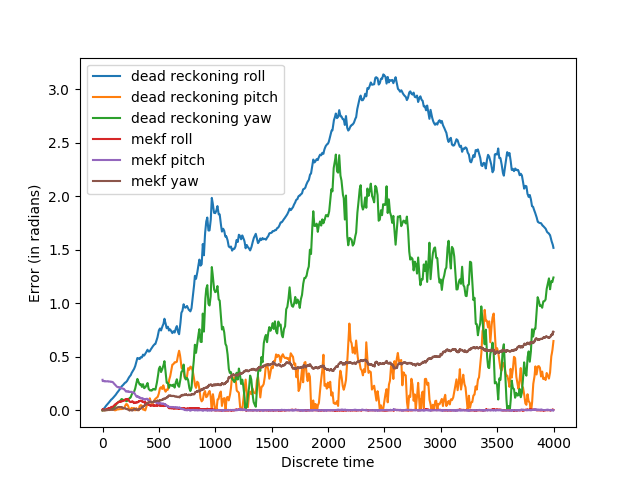
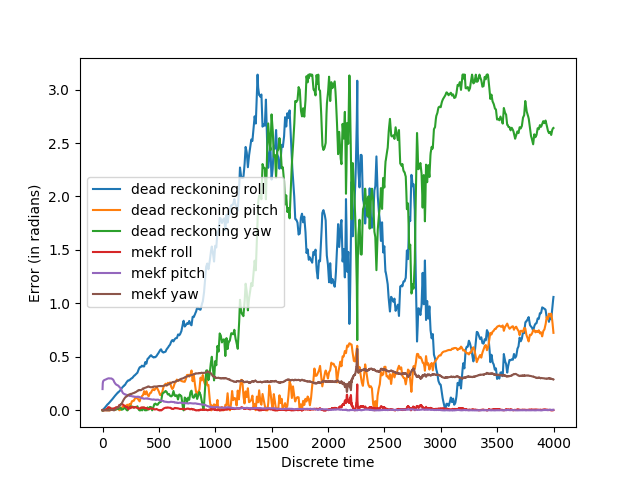
Added process covariance derivation

diff --git a/_posts/2020-07-18-mekf.md b/_posts/2020-07-18-mekf.md
@@ -34,13 +34,13 @@ $$ q_{k|k-1} = q_{k-1|k-1} + \dot{q}_{k-1|k-1} \Delta t = q_{k-1|k-1} + \frac{1}
 
 Then, update the process model:
 
-$$F_k = (I + G\Delta t) $$
+$$\Phi_k = (I + F\Delta t) $$
 
-where $ \dot{\boldsymbol{x}} = G \boldsymbol{x} $
+where $ \dot{\boldsymbol{x}} = F \boldsymbol{x} $
 
 Then, update the *a priori* estimate covariance and kalman gain (the following is common with the vanilla KF) :
 
-$$ P_{k|k-1} = F_k P_{k-1|k-1} F_k^T + Q_k $$
+$$ P_{k|k-1} = \Phi_k P_{k-1|k-1} \Phi_k^T + Q_k $$
 
 $$ K_k = P_{k|k-1} H_k^T (H_k P_{k|k-1} H_k^T + R_k)^{-1} $$
 
@@ -67,12 +67,12 @@ $$\boldsymbol{f}^b = \boldsymbol{a}^b +  R(q)_i^b \begin{pmatrix} 0 \\ 0 \\ -g \
 
 Let's form our state vector. We'll need the orientation error parameterisation($\boldsymbol{\alpha}$), the position error ($\delta \boldsymbol{r}$) and linear velocity error ($\delta \boldsymbol{v}$) in world coordinates, and the gyro and accelerometer biases ($ \boldsymbol{\beta_{\omega}} $ and $ \boldsymbol{\beta_{f}}$):
 
-$$x = \begin{pmatrix} \boldsymbol{\alpha} \\  \delta \boldsymbol{v} \\ \delta \boldsymbol{r} \\ \boldsymbol{\beta_{\omega}} \\ \boldsymbol{\beta_{f}} \end{pmatrix} $$
+$$\boldsymbol{x} = \begin{pmatrix} \boldsymbol{\alpha} \\  \delta \boldsymbol{v} \\ \delta \boldsymbol{r} \\ \boldsymbol{\beta_{\omega}} \\ \boldsymbol{\beta_{f}} \end{pmatrix} $$
 
-In order to form the Kalman filter, we need to form our discrete state transition model, which is determined in the obvious form from the dynamics of the error state vector: $ F = I + G\Delta t $ where
-$$ \dot{\boldsymbol{x}} =  G \boldsymbol{x} $$
+In order to form the Kalman filter, we need to form our discrete state transition model, which is determined in the obvious form from the dynamics of the error state vector: $ \Phi = I + F\Delta t $ where
+$$ \dot{\boldsymbol{x}} =  F \boldsymbol{x} $$
 
-See the [appendix](#appendix) for derivations.
+See the [appendix](#appendix) for derivations of the following.
 
 $$ \dot{\boldsymbol{\alpha}} = -[\boldsymbol{\hat{\omega}} \times] \boldsymbol{\alpha} - \boldsymbol{\beta_{\omega}} - \boldsymbol{\eta_{\omega}}$$
 
@@ -86,20 +86,20 @@ $$ \dot{\boldsymbol{\beta_{f}}} = \boldsymbol{\nu_{f}} $$
 
 so,
 
-$$ G = \begin{pmatrix}-[\boldsymbol{\hat{\omega}} \times]  & 0 & 0 & -I & 0 \\ -R_b^i (\hat{q})[\boldsymbol{\hat{f}}^b \times] & 0 & 0 & 0 & - R_b^i(\hat{q}) \\
+$$ F = \begin{pmatrix}-[\boldsymbol{\hat{\omega}} \times]  & 0 & 0 & -I & 0 \\ -R_b^i (\hat{q})[\boldsymbol{\hat{f}}^b \times] & 0 & 0 & 0 & - R_b^i(\hat{q}) \\
 0 & I & 0 & 0 & 0 \\ 0 & 0 & 0 & 0 & 0 \\ 0 & 0 & 0 & 0 & 0 \end{pmatrix} $$
 
 and
 
-$$ Q_k = \int_0^{\Delta t} e^{F(t-\tau)} Q_c e^{F^T(t-\tau)} d\tau $$
+$$ Q_k = \int_0^{\Delta t} e^{F(\Delta t-\tau)} Q_c e^{F^T(\Delta t-\tau)} d\tau $$
 
 where
 
-$$Q_c = \begin{pmatrix} diag(\sigma_{\omega}^2) & 0 & 0 & 0 & 0 & 0 \\ 0 & diag(\sigma_{f}^2) & 0 & ) & 0 & 0 \\ 0 & 0 & 0 & 0 & 0 & 0 \\ 0 & 0 & 0 & diag(\sigma_{\beta_{\omega}}^2) & 0 & 0 \\ 0 & 0 & 0 & 0 & diag(\sigma_{\beta_{f}}^2) & 0 \\ 0 & 0 & 0 & 0 & 0 & diag(\sigma_{\beta_{m}}^2) \end{pmatrix}$$
+$$Q_c = \begin{pmatrix} diag(\sigma_{\omega}^2) & 0 & 0 & 0 & 0 \\ 0 & diag(\sigma_{f}^2) & 0 & 0 & 0 \\ 0 & 0 & 0 & 0 & 0 \\ 0 & 0 & 0 & diag(\sigma_{\beta_{\omega}}^2) & 0 \\ 0 & 0 & 0 & 0 & diag(\sigma_{\beta_{f}}^2) \end{pmatrix}$$
 
 We can linearise $F$ around $\hat{\omega} = \hat{f} = 0 $ and $ R_i^b(\hat{q}) = I $ to obtain:
 
-$$ Q_k = \begin{pmatrix} \wedge(\sigma_{\omega}^2) \Delta t + \wedge(\sigma_{\beta_{\omega}}^2) \frac{\Delta t^3}{3} & 0 & 0 & -\wedge(\sigma_{\beta_{\omega}}^2) \frac{\Delta t^2}{2} & 0 & 0 \\ 0 & \wedge(\sigma_f^2) \Delta t + \wedge(\sigma_{\beta_{f}}^2) \frac{\Delta t^3}{3} & \wedge(\sigma_{\beta_{f}}^2) \frac{\Delta t^4}{8} + \wedge(\sigma_{f}^2) \frac{\Delta t^2}{2} & 0 & -\wedge(\sigma_{\beta_{f}}^2) \frac{\Delta t^2}{2} & 0 \\ 0 & \wedge(\sigma_f^2) \frac{\Delta t^2}{2} + \wedge(\sigma_{\beta_{f}}^2) \frac{\Delta t^4}{8} & \wedge(\sigma_{f}^2) \frac{\Delta t^3}{3} + \wedge(\sigma_{\beta_f}^2) \frac{\Delta t^5}{20} & 0 & -\wedge(\sigma_{\beta_{f}}^2) \frac{\Delta t^3}{6} & 0 \\ -\wedge(\sigma_{\beta_{\omega}}^2) \frac{\Delta t^2}{2} & 0 & 0 & \wedge(\sigma_{\beta_{\omega}}^2) \frac{\Delta t^2}{2} & 0 & 0 \\ 0 & -\wedge(\sigma_{\beta_f}^2) \frac{\Delta t^2}{2} & -\wedge(\sigma_{\beta_f}^2) \frac{\Delta t^3}{6} & 0 & \wedge(\sigma_{\beta_{f}}^2) \Delta t & 0 \\ 0 & 0 & 0 & 0 & 0 & \wedge(\sigma_{\beta_m}^2) \Delta t \end{pmatrix} $$
+$$ Q_k = \begin{pmatrix} \wedge(\sigma_{\omega}^2) \Delta t + \wedge(\sigma_{\beta_{\omega}}^2) \frac{\Delta t^3}{3} & 0 & 0 & -\wedge(\sigma_{\beta_{\omega}}^2) \frac{\Delta t^2}{2} & 0 \\ 0 & \wedge(\sigma_f^2) \Delta t + \wedge(\sigma_{\beta_{f}}^2) \frac{\Delta t^3}{3} & \wedge(\sigma_{\beta_{f}}^2) \frac{\Delta t^4}{8} + \wedge(\sigma_{f}^2) \frac{\Delta t^2}{2} & 0 & -\wedge(\sigma_{\beta_{f}}^2) \frac{\Delta t^2}{2} \\ 0 & \wedge(\sigma_f^2) \frac{\Delta t^2}{2} + \wedge(\sigma_{\beta_{f}}^2) \frac{\Delta t^4}{8} & \wedge(\sigma_{f}^2) \frac{\Delta t^3}{3} + \wedge(\sigma_{\beta_f}^2) \frac{\Delta t^5}{20} & 0 & -\wedge(\sigma_{\beta_{f}}^2) \frac{\Delta t^3}{6} \\ -\wedge(\sigma_{\beta_{\omega}}^2) \frac{\Delta t^2}{2} & 0 & 0 & \wedge(\sigma_{\beta_{\omega}}^2) \Delta t & 0 \\ 0 & -\wedge(\sigma_{\beta_f}^2) \frac{\Delta t^2}{2} & -\wedge(\sigma_{\beta_f}^2) \frac{\Delta t^3}{6} & 0 & \wedge(\sigma_{\beta_{f}}^2) \Delta t \end{pmatrix} $$
 
 where $$ \wedge(\boldsymbol{x}) = \begin{pmatrix} x_0 & 0 & 0 \\ 0 & x_1 & 0 \\ 0 & 0 & x_2 \end{pmatrix} $$
 
@@ -117,23 +117,49 @@ Here's the python equivalent (you can find the full code [here](https://github.c
 
 ```python
 class Kalman:
+
     #state vector:
     # [0:3] orientation error
     # [3:6] velocity error
     # [6:9] position error
     # [9:12] gyro bias
     # [12:15] accelerometer bias
-    def __init__(self, initial_est, estimate_covariance, process_covariance, observation_covariance):
+    def __init__(self, initial_est, estimate_covariance, 
+                       gyro_cov, gyro_bias_cov, accel_proc_cov, 
+                       accel_bias_cov, accel_obs_cov):
         self.estimate = initial_est
         self.estimate_covariance = estimate_covariance*np.identity(15, dtype=float)
-        self.process_covariance = process_covariance*np.identity(15, dtype=float)
-        self.observation_covariance = observation_covariance*np.identity(3, dtype=float)
+
+        self.observation_covariance = accel_obs_cov*np.identity(3, dtype=float)
         self.gyro_bias = np.array([0.0, 0.0, 0.0])
         self.accelerometer_bias = np.array([0.0, 0.0, 0.0])
 
         self.G = np.zeros(shape=(15, 15), dtype=float)
         self.G[0:3, 9:12] = -np.identity(3)
         self.G[6:9, 3:6] =  np.identity(3)
+
+        self.gyro_cov_mat = gyro_cov*np.identity(3, dtype=float)
+        self.gyro_bias_cov_mat = gyro_bias_cov*np.identity(3, dtype=float)
+        self.accel_cov_mat = accel_proc_cov*np.identity(3, dtype=float)
+        self.accel_bias_cov_mat = accel_bias_cov*np.identity(3, dtype=float)
+
+    def process_covariance(self, time_delta):
+        Q = np.zeros(shape=(15, 15), dtype=float)
+        Q[0:3, 0:3] = self.gyro_cov_mat*time_delta + self.gyro_bias_cov_mat*(time_delta**3)/3.0
+        Q[0:3, 9:12] = -self.gyro_bias_cov_mat*(time_delta**2)/2.0
+        Q[3:6, 3:6] = self.accel_cov_mat*time_delta + self.accel_bias_cov_mat*(time_delta**3)/3.0
+        Q[3:6, 6:9] = self.accel_bias_cov_mat*(time_delta**4)/8.0 + self.accel_cov_mat*(time_delta**2)/2.0
+        Q[3:6, 12:15] = -self.accel_bias_cov_mat*(time_delta**2)/2.0
+        Q[6:9, 3:6] = self.accel_cov_mat*(time_delta**2)/2.0 + self.accel_bias_cov_mat*(time_delta**4)/8.0
+        Q[6:9, 6:9] = self.accel_cov_mat*(time_delta**3)/3.0 + self.accel_bias_cov_mat*(time_delta**5)/20.0
+        Q[6:9, 12:15] = -self.accel_bias_cov_mat*(time_delta**3)/6.0
+        Q[9:12, 0:3] = -self.gyro_bias_cov_mat*(time_delta**2)/2.0
+        Q[9:12, 9:12] = self.gyro_bias_cov_mat*time_delta
+        Q[12:15, 3:6] = -self.accel_bias_cov_mat*(time_delta**2)/2.0
+        Q[12:15, 6:9] = -self.accel_bias_cov_mat*(time_delta**3)/6.0
+        Q[12:15, 12:15] = self.accel_bias_cov_mat*time_delta
+
+        return Q
         
     def update(self, gyro_meas, acc_meas, time_delta):
         
@@ -151,7 +177,7 @@ class Kalman:
         F = np.identity(15, dtype=float) + self.G*time_delta
 
         #Update with a priori covariance
-        self.estimate_covariance = np.dot(np.dot(F, self.estimate_covariance), F.transpose()) + self.process_covariance
+        self.estimate_covariance = np.dot(np.dot(F, self.estimate_covariance), F.transpose()) + self.process_covariance(time_delta)
 
         #Form Kalman gain
         H = np.zeros(shape=(3,15), dtype=float)
@@ -190,7 +216,7 @@ That's better.
 
 
 The following derivations are from the excellent paper *Multiplicative Quaternion Extended Kalman Filtering for
-Nonspinning Guided Projectiles* by James M. Maley.
+Nonspinning Guided Projectiles* by James M. Maley, with some corrections of mine for the derivations of the process covariance matrix.
 
 ### Proof of $ \dot{\boldsymbol{\alpha}} = -[\boldsymbol{\hat{\omega}} \times] \boldsymbol{\alpha} - \boldsymbol{\beta_{\omega}} - \boldsymbol{\eta_{\omega}}$:
 
@@ -259,3 +285,98 @@ so
 $$ \delta \boldsymbol{m}^b = -[\boldsymbol{\alpha} \times])R_i^b(\hat{q}) \boldsymbol{m}^i + \boldsymbol{\beta_m} + \boldsymbol{\eta_m}$$
 
 which is the required result.
+
+### Proof of *a priori* covariance propagation
+
+From earlier, we have:
+
+$$ \dot{\boldsymbol{\alpha}} = -[\boldsymbol{\hat{\omega}} \times] \boldsymbol{\alpha} - \boldsymbol{\beta_{\omega}} - \boldsymbol{\eta_{\omega}}$$
+
+$$ \delta \dot{\boldsymbol{v}} = -R_b^i (\hat{q})[\boldsymbol{\hat{f}}^b \times] \boldsymbol{\alpha} - R_b^i(\hat{q}) \boldsymbol{\beta_f} - R_b^i (\hat{q}) \boldsymbol{\eta_f}$$
+
+$$ \delta \dot{\boldsymbol{r}} = \delta \boldsymbol{v} $$
+
+$$ \dot{\boldsymbol{\beta_{\omega}}} = \boldsymbol{\nu_{\omega}} $$
+
+$$ \dot{\boldsymbol{\beta_{f}}} = \boldsymbol{\nu_{f}} $$
+
+Using the previous definitions of $ \boldsymbol{x} $ and $ F $, we can restate this as:
+
+$$ \dot{\boldsymbol{x}} = F \boldsymbol{x} + G \boldsymbol{w} $$
+
+with 
+
+$$ G = \begin{pmatrix} diag(-\sigma_{\omega}) & 0 & 0 & 0 & 0 \\ 0 & -R_b^i(\hat{q}) diag(\sigma_f) & 0 & 0 & 0 \\ 0 & 0 & 0 & 0 & 0 \\ 0 & 0 & 0 & diag(\sigma_{\beta_{\omega}}) & 0 \\ 0 & 0 & 0 & 0 & diag(\sigma_{\beta_f}))  \end{pmatrix}$$
+
+and $ \boldsymbol{w} $, a unity-variance, zero mean white-noise vector.
+
+By inspection, the cross-correlation of $G\boldsymbol{w}$ is 
+
+$$ E[(G\boldsymbol{w}(t))(G\boldsymbol{w}(\tau))^T] = Q_c \delta(t - \tau) $$
+
+The solution of $ \dot{\boldsymbol{x}} = F \boldsymbol{x} + G \boldsymbol{w} $ is a well-known result:
+
+$$ \boldsymbol{x}(t) = e^{F(t - t_0)}\boldsymbol{x}(t_0) + \int_{t_0}^{t} e^{F(t - \tau)} G\boldsymbol{w}(\tau) d\tau $$  
+
+We are interested in $ t = t_k $ and $ t_0 = t_{k-1} $, so that $ t_k - t_{k-1} = \Delta t $, and make the substitution in the integral of $ \tau' = \tau - t_{k-1} $
+
+$$ \boldsymbol{x}(t_k) = e^{F\Delta t}\boldsymbol{x}(t_{k-1}) + \int_{0}^{\Delta t} e^{F(\Delta t - \tau')} G\boldsymbol{w}(\tau' + t_{k-1}) d\tau' $$
+
+The covariance of $ \boldsymbol{x}(t_k) $ is then given by:
+
+$$ P_{k|k-1} = E[\boldsymbol{x}(t_k)\boldsymbol{x}(t_k)^T] = E[\begin{pmatrix} e^{F\Delta t}\boldsymbol{x}(t_{k-1}) + \int_{0}^{\Delta t} e^{F(\Delta t - \tau')} G\boldsymbol{w}(\tau' + t_{k-1}) d\tau' \end{pmatrix} \begin{pmatrix} e^{F\Delta t}\boldsymbol{x}(t_{k-1}) + \int_{0}^{\Delta t} e^{F(\Delta t - \tau'')} G\boldsymbol{w}(\tau'' + t_{k-1}) d\tau''\end{pmatrix}^T]$$
+
+Expanding this, we drop products of $ \boldsymbol{x} $ and $ \boldsymbol{w} $, because they are uncorrelated and both have an expectation of 0:
+
+$$ E[\boldsymbol{x}(t_k)\boldsymbol{x}(t_k)^T] = e^{F\Delta t} E[\boldsymbol{x}(t_{k-1})\boldsymbol{x}(t_{k-1})^T] e^{F^T\Delta t} + \int_{0}^{\Delta t}\int_{0}^{\Delta t} e^{F(\Delta t - \tau')} E[G\boldsymbol{w}(\tau' + t_{k-1})\boldsymbol{w}(\tau'' + t_{k-1})^TG^T]e^{F^T(\Delta t - \tau'')} d\tau' d\tau'' $$
+
+$$ E[\boldsymbol{x}(t_k)\boldsymbol{x}(t_k)^T] = e^{F\Delta t} P_{(k-1|k-1)} e^{F^T\Delta t} + \int_{0}^{\Delta t}\int_{0}^{\Delta t} e^{F(\Delta t - \tau')} Q_c \delta(\tau' - \tau'') e^{F^T(\Delta t - \tau'')} d\tau' d\tau'' $$
+
+
+$$ E[\boldsymbol{x}(t_k)\boldsymbol{x}(t_k)^T] = \Phi P_{(k-1|k-1)} \Phi^T + \int_{0}^{\Delta t} e^{F(\Delta t - \tau'')} Q_c e^{F^T(\Delta t - \tau'')}d\tau'' $$
+
+So, $Q_k = \int_{0}^{\Delta t} e^{F(\Delta t - \tau)} Q_c e^{F^T(\Delta t - \tau)}d\tau$, the desired result.
+
+We approximate $ e^{F(\Delta t - \tau)} $ with $ I + F(\Delta t - \tau) + \frac{1}{2} F^2(\Delta t - \tau)^2 $ and linearise $F$ around $\hat{\omega} = \hat{f} = 0 $ and $ R_i^b(\hat{q}) = I $, so that 
+
+$$ F \approx \begin{pmatrix} 0 & 0 & 0 & -I & 0 & 0 \\ 0 & 0 & 0 & 0 & -I & 0 \\ 0 & I & 0 & 0 & 0 & 0 \\ 0 & 0 & 0 & 0 & 0 & 0 \\ 0 & 0 & 0 & 0 & 0 & 0 \\ 0 & 0 & 0 & 0 & 0 & 0 \end{pmatrix} $$
+
+and 
+
+$$ I + F(\Delta t - \tau) + \frac{1}{2} F^2(\Delta t - \tau)^2 $$ = 
+
+$$\begin{pmatrix} I & 0 & 0 & -I(\Delta t - \tau) & 0 & 0 \\ 0 & I & 0 & 0 & -I(\Delta t - \tau) & 0 \\ 0 & I(\Delta t - \tau) & I & 0 & -\frac{I}{2}(\Delta t - \tau)^2 & 0 \\ 0 & 0 & 0 & I & 0 & 0 \\ 0 & 0 & 0 & 0 & I & 0 \\ 0 & 0 & 0 & 0 & 0 & I \end{pmatrix} $$
+
+Using this approximation in $e^{F(\Delta t - \tau)} Q_c e^{F^T(\Delta t - \tau)}$ gives us:
+
+$$ Q_k = \int_{0}^{\Delta t} \begin{pmatrix} 
+\wedge(\sigma_{\omega}^2) + \wedge(\sigma_{\beta_{\omega}}^2) (\Delta t - \tau)^2 & 0 & 0 & -\wedge(\sigma_{\beta_{\omega}}^2) (\Delta t - \tau) & 0 \\ 
+0 & \wedge(\sigma_f^2) + \wedge(\sigma_{\beta_{f}}^2) (\Delta t - \tau)^2 & \wedge(\sigma_{\beta_{f}}^2) \frac{(\Delta t - \tau)^3}{2} + \wedge(\sigma_{f}^2) (\Delta t - \tau) & 0 & -\wedge(\sigma_{\beta_{f}}^2)(\Delta t - \tau) \\ 0 & \wedge(\sigma_f^2) (\Delta t - \tau) + \wedge(\sigma_{\beta_{f}}^2) \frac{(\Delta t - \tau)^3}{2} & \wedge(\sigma_{f}^2)(\Delta t - \tau)^2 + \wedge(\sigma_{\beta_f}^2) \frac{(\Delta t - \tau)^4}{4} & 0 & -\wedge(\sigma_{\beta_{f}}^2) \frac{(\Delta t - \tau)^2}{2} \\ -\wedge(\sigma_{\beta_{\omega}}^2) (\Delta t - \tau) & 0 & 0 & \wedge(\sigma_{\beta_{\omega}}^2) & 0 \\ 0 & -\wedge(\sigma_{\beta_f}^2) (\Delta t - \tau) & -\wedge(\sigma_{\beta_f}^2) \frac{(\Delta t - \tau)^2}{2} & 0 & \wedge(\sigma_{\beta_{f}}^2) \end{pmatrix} d\tau$$
+
+Evaluating this integral gives us the desired result for the $Q_k$ process noise approximation.
+
+### Extended equations for a magnetometer observation
+
+We extend our state vector to include the magnetometer bias:
+
+
+$$\boldsymbol{x} = \begin{pmatrix} \boldsymbol{\alpha} \\  \delta \boldsymbol{v} \\ \delta \boldsymbol{r} \\ \boldsymbol{\beta_{\omega}} \\ \boldsymbol{\beta_{f}} \\ \boldsymbol{\beta_m} \end{pmatrix} $$
+
+with $ \dot{\boldsymbol{\beta_m}} =  \boldsymbol{\eta_{m}}$
+
+Then $F$ becomes
+
+$$ F = \begin{pmatrix}-[\boldsymbol{\hat{\omega}} \times]  & 0 & 0 & -I & 0 & 0 \\ -R_b^i (\hat{q})[\boldsymbol{\hat{f}}^b \times] & 0 & 0 & 0 & - R_b^i(\hat{q}) & 0 \\
+0 & I & 0 & 0 & 0 & 0 \\ 0 & 0 & 0 & 0 & 0 & 0 \\ 0 & 0 & 0 & 0 & 0 & 0 \\ 0 & 0 & 0 & 0 & 0 & 0 \end{pmatrix} $$
+
+and $Q_c$ and $Q_k$ become 
+
+$$Q_c = \begin{pmatrix} diag(\sigma_{\omega}^2) & 0 & 0 & 0 & 0 & 0 \\ 0 & diag(\sigma_{f}^2) & 0 & ) & 0 & 0 \\ 0 & 0 & 0 & 0 & 0 & 0 \\ 0 & 0 & 0 & diag(\sigma_{\beta_{\omega}}^2) & 0 & 0 \\ 0 & 0 & 0 & 0 & diag(\sigma_{\beta_{f}}^2) & 0 \\ 0 & 0 & 0 & 0 & 0 & diag(\sigma_{\beta_{m}}^2) \end{pmatrix}$$
+
+$$ Q_k = \begin{pmatrix} \wedge(\sigma_{\omega}^2) \Delta t + \wedge(\sigma_{\beta_{\omega}}^2) \frac{\Delta t^3}{3} & 0 & 0 & -\wedge(\sigma_{\beta_{\omega}}^2) \frac{\Delta t^2}{2} & 0 & 0 \\ 0 & \wedge(\sigma_f^2) \Delta t + \wedge(\sigma_{\beta_{f}}^2) \frac{\Delta t^3}{3} & \wedge(\sigma_{\beta_{f}}^2) \frac{\Delta t^4}{8} + \wedge(\sigma_{f}^2) \frac{\Delta t^2}{2} & 0 & -\wedge(\sigma_{\beta_{f}}^2) \frac{\Delta t^2}{2} & 0 \\ 0 & \wedge(\sigma_f^2) \frac{\Delta t^2}{2} + \wedge(\sigma_{\beta_{f}}^2) \frac{\Delta t^4}{8} & \wedge(\sigma_{f}^2) \frac{\Delta t^3}{3} + \wedge(\sigma_{\beta_f}^2) \frac{\Delta t^5}{20} & 0 & -\wedge(\sigma_{\beta_{f}}^2) \frac{\Delta t^3}{6} & 0 \\ -\wedge(\sigma_{\beta_{\omega}}^2) \frac{\Delta t^2}{2} & 0 & 0 & \wedge(\sigma_{\beta_{\omega}}^2) \Delta t & 0 & 0 \\ 0 & -\wedge(\sigma_{\beta_f}^2) \frac{\Delta t^2}{2} & -\wedge(\sigma_{\beta_f}^2) \frac{\Delta t^3}{6} & 0 & \wedge(\sigma_{\beta_{f}}^2) \Delta t & 0 \\ 0 & 0 & 0 & 0 & 0 & \wedge(\sigma_{\beta_m}^2) \Delta t \end{pmatrix} $$
+
+Similarly, the observation matrix $H$ becomes
+
+$$H = \begin{pmatrix} \begin{bmatrix}R_i^b(\hat{q})\begin{pmatrix} 0 \\ 0 \\ -g \end{pmatrix} \times \end{bmatrix} & 0 & 0 & 0 & I & 0 \\ \begin{bmatrix}R_i^b(\hat{q})\begin{pmatrix} 1 \\ 0 \\ 0 \end{pmatrix} \times \end{bmatrix} & 0 & 0 & 0 & 0 & I\end{pmatrix} $$
+
+
